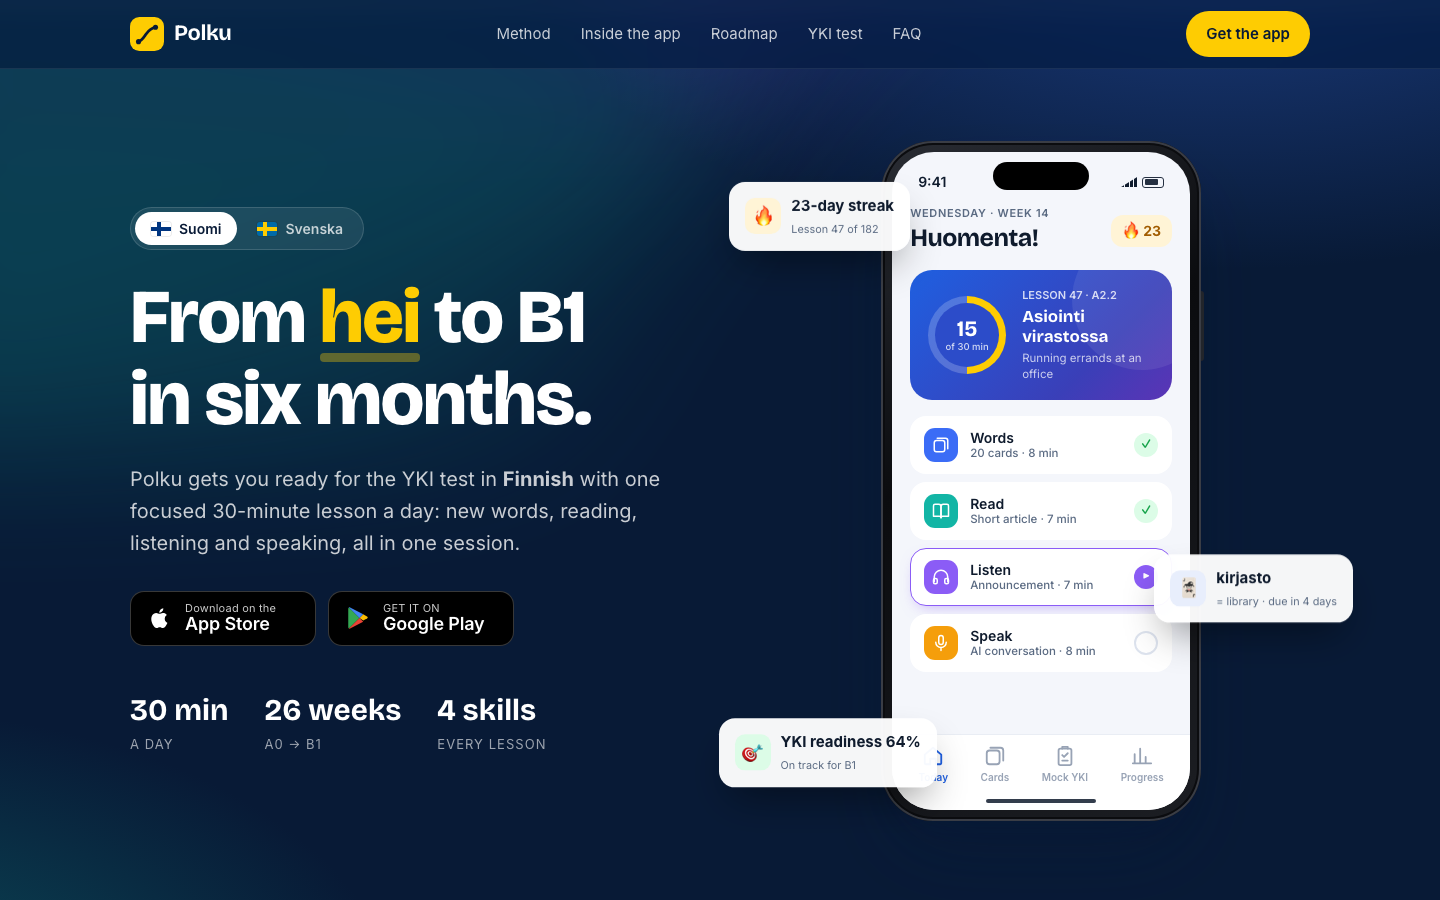
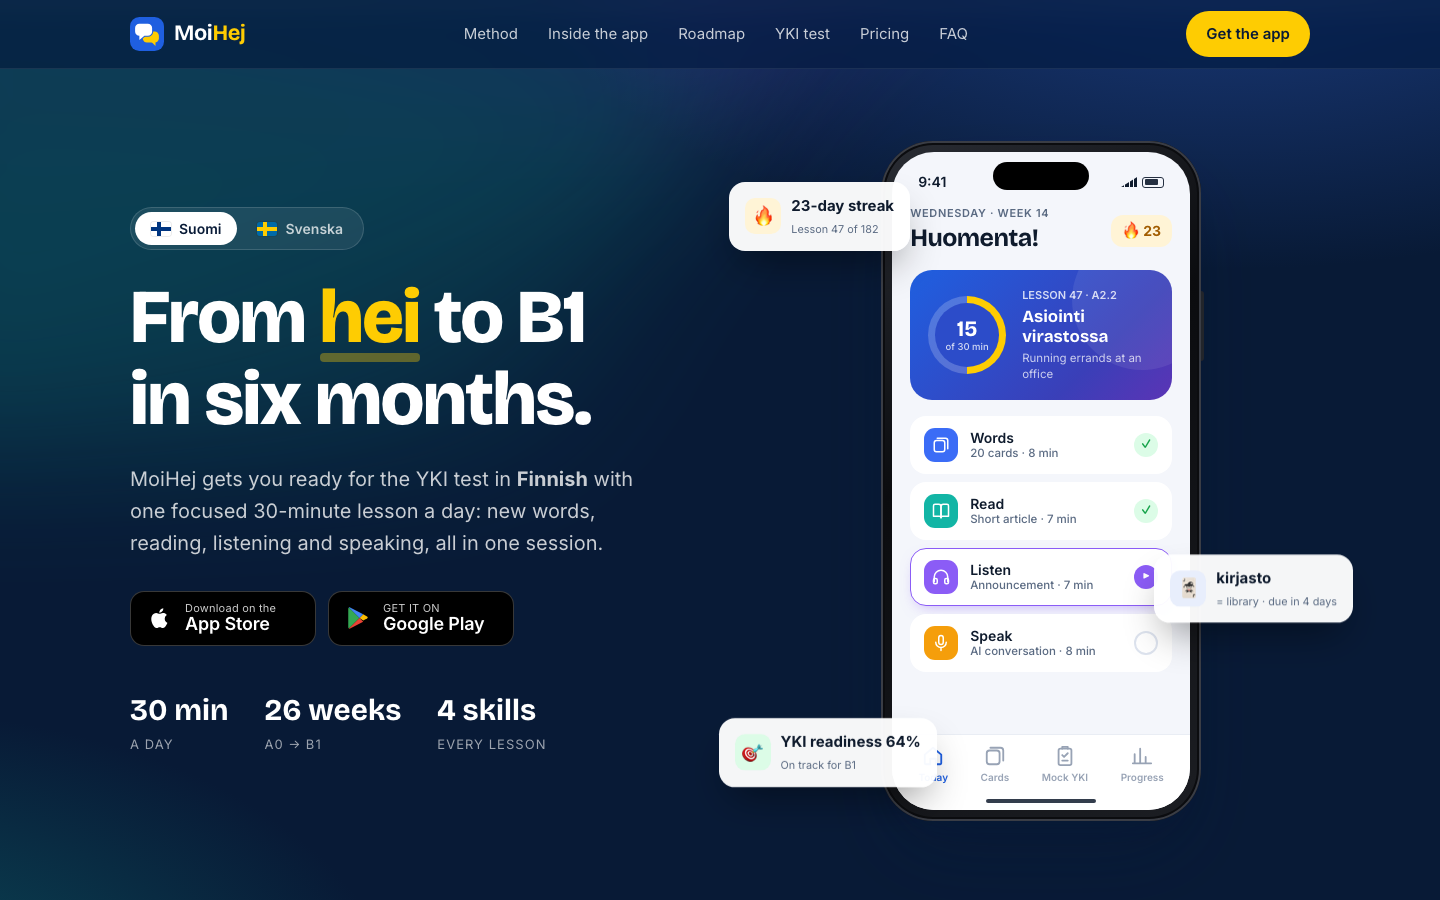
Rename app from Polku to MoiHej
New two-bubble logo mark (white = Finnish, yellow = Swedish) and
MoiHej wordmark; favicon, copy, privacy policy, README and mockup
images updated. GoatCounter account code stays 'polku'.

diff --git a/index.html b/index.html
@@ -3,16 +3,16 @@
 <head>
   <meta charset="utf-8">
   <meta name="viewport" content="width=device-width, initial-scale=1">
-  <title>Polku — Pass the YKI test in Finnish or Swedish</title>
+  <title>MoiHej — Pass the YKI test in Finnish or Swedish</title>
   <meta name="description" content="30-minute daily lessons that take you from A0 to B1 in six months. Flashcards, reading, listening and speaking practice built around the Finnish YKI language test.">
-  <meta property="og:title" content="Polku — From hei to B1 in six months">
+  <meta property="og:title" content="MoiHej — From hei to B1 in six months">
   <meta property="og:description" content="30 minutes a day. Words, reading, listening and speaking. Built for the YKI test.">
   <meta name="theme-color" content="#081a36">
   <link rel="icon" href="assets/favicon.svg" type="image/svg+xml">
   <link rel="preconnect" href="https://fonts.googleapis.com">
   <link rel="preconnect" href="https://fonts.gstatic.com" crossorigin>
   <link href="https://fonts.googleapis.com/css2?family=Bricolage+Grotesque:opsz,wght@12..96,600;12..96,700;12..96,800&family=Inter:wght@400;500;600;700&display=swap" rel="stylesheet">
-  <link rel="stylesheet" href="assets/styles.css?v=202611122002">
+  <link rel="stylesheet" href="assets/styles.css?v=2026111220232">
 </head>
 <body>
 
@@ -35,9 +35,9 @@
 
 <header class="nav">
   <div class="container">
-    <a href="#" class="logo" aria-label="Polku home">
-      <svg class="logo-mark" viewBox="0 0 40 40" aria-hidden="true"><rect width="40" height="40" rx="11" fill="#fecc02"/><path d="M10 29c4-1 6-5 9-9s6-7 11-8" stroke="#081a36" stroke-width="3.4" fill="none" stroke-linecap="round"/><circle cx="10" cy="29" r="3" fill="#081a36"/><circle cx="30" cy="12" r="3" fill="#081a36"/></svg>
-      Polku
+    <a href="#" class="logo" aria-label="MoiHej home">
+      <svg class="logo-mark" viewBox="0 0 40 40" aria-hidden="true"><rect width="40" height="40" rx="11" fill="#1f5fe0"/><rect x="15" y="17" width="19" height="13" rx="5" fill="#fecc02"/><path d="M25 29h5v5z" fill="#fecc02"/><g fill="#fff" stroke="#1f5fe0" stroke-width="2.5" stroke-linejoin="round" paint-order="stroke"><path d="M11 8h10a5 5 0 0 1 5 5v4a5 5 0 0 1-5 5h-4l-6 5v-5a5 5 0 0 1-5-5v-4a5 5 0 0 1 5-5z"/></g></svg>
+      <span class="wordmark">Moi<span class="logo-hej">Hej</span></span>
     </a>
     <nav class="nav-links">
       <a href="#method">Method</a>
@@ -61,7 +61,7 @@
         <button type="button" data-lang="sv" aria-pressed="false"><span class="flag sv"></span>Svenska</button>
       </div>
       <h1>From <span class="hl" data-t="hello">hei</span> to B1<br>in six months.</h1>
-      <p class="lede">Polku gets you ready for the YKI test in <strong data-t="langName">Finnish</strong> with one focused 30-minute lesson a day: new words, reading, listening and speaking, all in one session.</p>
+      <p class="lede">MoiHej gets you ready for the YKI test in <strong data-t="langName">Finnish</strong> with one focused 30-minute lesson a day: new words, reading, listening and speaking, all in one session.</p>
       <div class="stores">
         <a class="store" href="#" data-store="ios" data-where="hero" aria-label="Download on the App Store (coming soon)">
           <svg><use href="#i-apple"/></svg>
@@ -378,7 +378,7 @@
     <div class="section-head reveal">
       <span class="eyebrow-tag">Built around the YKI test</span>
       <h2>Practice exactly what you'll be tested on</h2>
-      <p>The YKI intermediate test (keskitaso / mellannivå) measures four skills. Polku trains every one of them and tells you where you stand before you book your exam.</p>
+      <p>The YKI intermediate test (keskitaso / mellannivå) measures four skills. MoiHej trains every one of them and tells you where you stand before you book your exam.</p>
     </div>
     <div class="yki-grid">
       <div class="yki-card reveal"><span class="num">01</span><h3>Reading</h3><p>Understand notices, emails and news articles. Practice with timed comprehension tasks in the real exam format.</p></div>
@@ -408,7 +408,7 @@
     <div class="price-wrap">
       <div class="plan reveal">
         <span class="trial-badge">First 3 days free</span>
-        <h3>Polku Premium</h3>
+        <h3>MoiHej Premium</h3>
         <p class="plan-sub">Finnish or Swedish · iOS &amp; Android</p>
         <div class="price"><span class="cur">€</span><span class="amt">49</span><span class="per">/ month</span></div>
         <p class="per-day">That's about <strong>€1.63 a day</strong></p>
@@ -426,7 +426,7 @@
 
       <div class="coffee reveal">
         <h3>Cheaper than your daily coffee</h3>
-        <p>One café coffee a day in Finland adds up fast. Polku costs less, and gets you to B1.</p>
+        <p>One café coffee a day in Finland adds up fast. MoiHej costs less, and gets you to B1.</p>
         <div class="vs">
           <div class="vs-row">
             <span class="vs-ico">☕</span>
@@ -435,7 +435,7 @@
           </div>
           <div class="vs-row us">
             <span class="vs-ico logo-ico"><svg viewBox="0 0 40 40" aria-hidden="true"><rect width="40" height="40" rx="11" fill="#fecc02"/><path d="M10 29c4-1 6-5 9-9s6-7 11-8" stroke="#081a36" stroke-width="3.4" fill="none" stroke-linecap="round"/></svg></span>
-            <div class="vs-main"><b>Polku Premium</b><small>30 lessons + mock tests</small><span class="vs-bar"><i style="width:47%"></i></span></div>
+            <div class="vs-main"><b>MoiHej Premium</b><small>30 lessons + mock tests</small><span class="vs-bar"><i style="width:47%"></i></span></div>
             <strong>€49</strong>
           </div>
         </div>
@@ -455,7 +455,7 @@
     <div class="faq-list">
       <details class="reveal" open>
         <summary>Can I really get from zero to B1 in six months?</summary>
-        <p>With 30 minutes every day, you'll put in around 90 hours of focused, structured practice. Results depend on your background and consistency. Polku's weekly mock tests show your real progress, so you'll know when you're ready to book the exam.</p>
+        <p>With 30 minutes every day, you'll put in around 90 hours of focused, structured practice. Results depend on your background and consistency. MoiHej's weekly mock tests show your real progress, so you'll know when you're ready to book the exam.</p>
       </details>
       <details class="reveal">
         <summary>How does the free trial work?</summary>
@@ -474,8 +474,8 @@
         <p>Yes. Download the next week of lessons and study on the train or anywhere without a connection. The AI speaking practice needs internet.</p>
       </details>
       <details class="reveal">
-        <summary>Is Polku affiliated with the official YKI test?</summary>
-        <p>No. Polku is an independent preparation app. The YKI test is organised by the Finnish National Agency for Education (Opetushallitus) and the University of Jyväskylä.</p>
+        <summary>Is MoiHej affiliated with the official YKI test?</summary>
+        <p>No. MoiHej is an independent preparation app. The YKI test is organised by the Finnish National Agency for Education (Opetushallitus) and the University of Jyväskylä.</p>
       </details>
     </div>
   </div>
@@ -505,8 +505,8 @@
 <footer>
   <div class="container">
     <a href="#" class="logo">
-      <svg class="logo-mark" viewBox="0 0 40 40" aria-hidden="true"><rect width="40" height="40" rx="11" fill="#fecc02"/><path d="M10 29c4-1 6-5 9-9s6-7 11-8" stroke="#081a36" stroke-width="3.4" fill="none" stroke-linecap="round"/><circle cx="10" cy="29" r="3" fill="#081a36"/><circle cx="30" cy="12" r="3" fill="#081a36"/></svg>
-      Polku
+      <svg class="logo-mark" viewBox="0 0 40 40" aria-hidden="true"><rect width="40" height="40" rx="11" fill="#1f5fe0"/><rect x="15" y="17" width="19" height="13" rx="5" fill="#fecc02"/><path d="M25 29h5v5z" fill="#fecc02"/><g fill="#fff" stroke="#1f5fe0" stroke-width="2.5" stroke-linejoin="round" paint-order="stroke"><path d="M11 8h10a5 5 0 0 1 5 5v4a5 5 0 0 1-5 5h-4l-6 5v-5a5 5 0 0 1-5-5v-4a5 5 0 0 1 5-5z"/></g></svg>
+      <span class="wordmark">Moi<span class="logo-hej">Hej</span></span>
     </a>
     <nav>
       <a href="mockups.html">Mockups</a>
@@ -523,7 +523,7 @@
   <div class="wl-body" data-step="form">
     <span class="wl-badge">Launching soon</span>
     <h2 id="wl-title">Be first to start learning</h2>
-    <p class="wl-lede">Polku isn't in the stores yet. Leave your email and we'll tell you the day it launches.</p>
+    <p class="wl-lede">MoiHej isn't in the stores yet. Leave your email and we'll tell you the day it launches.</p>
     <form id="wl-form" novalidate>
       <label class="wl-field">
         <span>Email</span>
@@ -543,21 +543,21 @@
       <input type="text" name="_gotcha" class="wl-hp" tabindex="-1" autocomplete="off" aria-hidden="true">
       <label class="wl-consent">
         <input type="checkbox" name="consent" value="yes" required>
-        <span>Email me when Polku launches. I can unsubscribe anytime. See the <a href="#" data-privacy>privacy note</a>.</span>
+        <span>Email me when MoiHej launches. I can unsubscribe anytime. See the <a href="#" data-privacy>privacy note</a>.</span>
       </label>
       <p class="wl-error" role="alert" hidden></p>
       <button type="submit" class="btn wl-submit">Notify me at launch</button>
     </form>
-    <p class="wl-privacy" hidden id="wl-privacy-note">We only use your email to tell you when Polku launches. It's stored with our form provider (Formspree) and never sold or shared. Want it deleted? Just reply to any email from us. <a href="privacy.html" target="_blank" rel="noopener">Full privacy policy</a></p>
+    <p class="wl-privacy" hidden id="wl-privacy-note">We only use your email to tell you when MoiHej launches. It's stored with our form provider (Formspree) and never sold or shared. Want it deleted? Just reply to any email from us. <a href="privacy.html" target="_blank" rel="noopener">Full privacy policy</a></p>
   </div>
   <div class="wl-body wl-done" data-step="done" hidden>
     <div class="wl-check">✓</div>
     <h2>You're on the list!</h2>
-    <p class="wl-lede">We'll email you as soon as Polku is in the App Store and Google Play. <span data-t="hello">hei</span> for now!</p>
+    <p class="wl-lede">We'll email you as soon as MoiHej is in the App Store and Google Play. <span data-t="hello">hei</span> for now!</p>
     <button type="button" class="btn wl-submit" data-close>Back to the site</button>
   </div>
 </dialog>
 <div class="toast" role="status" aria-live="polite"></div>
-<script src="assets/app.js?v=202611122002"></script>
+<script src="assets/app.js?v=2026111220232"></script>
 </body>
 </html>

diff --git a/privacy.html b/privacy.html
@@ -3,14 +3,14 @@
 <head>
   <meta charset="utf-8">
   <meta name="viewport" content="width=device-width, initial-scale=1">
-  <title>Privacy Policy · Polku</title>
-  <meta name="description" content="How the Polku website handles your personal data: the launch waitlist, cookie-free analytics, and your rights under the GDPR.">
+  <title>Privacy Policy · MoiHej</title>
+  <meta name="description" content="How the MoiHej website handles your personal data: the launch waitlist, cookie-free analytics, and your rights under the GDPR.">
   <meta name="theme-color" content="#081a36">
   <link rel="icon" href="assets/favicon.svg" type="image/svg+xml">
   <link rel="preconnect" href="https://fonts.googleapis.com">
   <link rel="preconnect" href="https://fonts.gstatic.com" crossorigin>
   <link href="https://fonts.googleapis.com/css2?family=Bricolage+Grotesque:opsz,wght@12..96,600;12..96,700;12..96,800&family=Inter:wght@400;500;600;700&display=swap" rel="stylesheet">
-  <link rel="stylesheet" href="assets/styles.css?v=202611122002">
+  <link rel="stylesheet" href="assets/styles.css?v=2026111220232">
   <style>
     .legal-hero { background: var(--navy); color: #fff; padding: 140px 0 56px; margin-top: -68px; }
     .legal-hero h1 { font-size: clamp(36px, 5vw, 56px); font-weight: 800; }
@@ -39,9 +39,9 @@
 
 <header class="nav">
   <div class="container">
-    <a href="index.html" class="logo" aria-label="Polku home">
-      <svg class="logo-mark" viewBox="0 0 40 40" aria-hidden="true"><rect width="40" height="40" rx="11" fill="#fecc02"/><path d="M10 29c4-1 6-5 9-9s6-7 11-8" stroke="#081a36" stroke-width="3.4" fill="none" stroke-linecap="round"/><circle cx="10" cy="29" r="3" fill="#081a36"/><circle cx="30" cy="12" r="3" fill="#081a36"/></svg>
-      Polku
+    <a href="index.html" class="logo" aria-label="MoiHej home">
+      <svg class="logo-mark" viewBox="0 0 40 40" aria-hidden="true"><rect width="40" height="40" rx="11" fill="#1f5fe0"/><rect x="15" y="17" width="19" height="13" rx="5" fill="#fecc02"/><path d="M25 29h5v5z" fill="#fecc02"/><g fill="#fff" stroke="#1f5fe0" stroke-width="2.5" stroke-linejoin="round" paint-order="stroke"><path d="M11 8h10a5 5 0 0 1 5 5v4a5 5 0 0 1-5 5h-4l-6 5v-5a5 5 0 0 1-5-5v-4a5 5 0 0 1 5-5z"/></g></svg>
+      <span class="wordmark">Moi<span class="logo-hej">Hej</span></span>
     </a>
     <a href="index.html" class="back">← Back to site</a>
   </div>
@@ -62,7 +62,7 @@
       <ul>
         <li>This website uses <strong>no cookies</strong> and no advertising trackers.</li>
         <li>We count visits with GoatCounter, which doesn't identify you or store your IP address.</li>
-        <li>If you join the launch waitlist, we keep your email, language and phone type <strong>only to tell you when Polku launches</strong>.</li>
+        <li>If you join the launch waitlist, we keep your email, language and phone type <strong>only to tell you when MoiHej launches</strong>.</li>
         <li>We never sell or share your data for marketing. You can ask us to delete it at any time.</li>
       </ul>
     </div>
@@ -82,7 +82,7 @@
       <li>which button on the page you used to open the form</li>
       <li>the fact that you ticked the consent box, and when you submitted the form</li>
     </ul>
-    <p><strong>Purpose:</strong> to email you when Polku is available in the App Store and Google Play, and to understand how many people want each language and platform.</p>
+    <p><strong>Purpose:</strong> to email you when MoiHej is available in the App Store and Google Play, and to understand how many people want each language and platform.</p>
     <p><strong>Legal basis:</strong> your consent (GDPR Article 6(1)(a)). You can withdraw it at any time by using the unsubscribe link in our emails or by contacting us. Withdrawing consent doesn't affect anything we did before you withdrew it.</p>
 
     <h3>b) Visitor statistics</h3>
@@ -129,8 +129,8 @@
     <h2>6. Cookies</h2>
     <p>This website doesn't set any cookies. It saves one setting in your browser's local storage, the language you last previewed (Finnish or Swedish), so the page remembers it on your next visit. This never leaves your device, and you can clear it in your browser settings at any time.</p>
 
-    <h2>7. The Polku app</h2>
-    <p>This policy covers this website only. The Polku mobile app will have its own privacy policy, available before you download it.</p>
+    <h2>7. The MoiHej app</h2>
+    <p>This policy covers this website only. The MoiHej mobile app will have its own privacy policy, available before you download it.</p>
 
     <h2>8. Changes</h2>
     <p>If we change this policy, we'll update the date at the top of this page. If a change affects how we use waitlist data, we'll tell you by email before it takes effect.</p>
@@ -141,8 +141,8 @@
 <footer>
   <div class="container">
     <a href="index.html" class="logo">
-      <svg class="logo-mark" viewBox="0 0 40 40" aria-hidden="true"><rect width="40" height="40" rx="11" fill="#fecc02"/><path d="M10 29c4-1 6-5 9-9s6-7 11-8" stroke="#081a36" stroke-width="3.4" fill="none" stroke-linecap="round"/><circle cx="10" cy="29" r="3" fill="#081a36"/><circle cx="30" cy="12" r="3" fill="#081a36"/></svg>
-      Polku
+      <svg class="logo-mark" viewBox="0 0 40 40" aria-hidden="true"><rect width="40" height="40" rx="11" fill="#1f5fe0"/><rect x="15" y="17" width="19" height="13" rx="5" fill="#fecc02"/><path d="M25 29h5v5z" fill="#fecc02"/><g fill="#fff" stroke="#1f5fe0" stroke-width="2.5" stroke-linejoin="round" paint-order="stroke"><path d="M11 8h10a5 5 0 0 1 5 5v4a5 5 0 0 1-5 5h-4l-6 5v-5a5 5 0 0 1-5-5v-4a5 5 0 0 1 5-5z"/></g></svg>
+      <span class="wordmark">Moi<span class="logo-hej">Hej</span></span>
     </a>
     <nav>
       <a href="index.html">Home</a>

diff --git a/assets/app.js b/assets/app.js
@@ -1,9 +1,9 @@
-/* Polku landing page — small, dependency-free enhancements */
+/* MoiHej landing page — small, dependency-free enhancements */
 (function () {
   "use strict";
 
   // ---------- Analytics (GoatCounter: free, cookie-free, GDPR-friendly) ----------
-  // 1. Sign up at https://www.goatcounter.com and pick a code, e.g. "polku".
+  // 1. Sign up at https://www.goatcounter.com and pick a code (this site uses "polku").
   // 2. Put that code here. Leave it empty to disable analytics entirely.
   var GOATCOUNTER_CODE = "polku";
 
@@ -23,7 +23,7 @@
       }
     } catch (e) { /* never break the page for analytics */ }
   }
-  window.polkuTrack = track;
+  window.moihejTrack = track;
 
   // ---------- "Coming soon" toast for the placeholder store links ----------
   var toastEl = document.querySelector(".toast"), toastTimer;
@@ -93,7 +93,7 @@
 
       btn.disabled = true; btn.textContent = "Sending…";
       var data = new FormData(form);
-      data.append("_subject", "Polku waitlist: " + data.get("language") + " / " + data.get("platform"));
+      data.append("_subject", "MoiHej waitlist: " + data.get("language") + " / " + data.get("platform"));
       fetch("https://formspree.io/f/" + FORMSPREE_ID, { method: "POST", body: data, headers: { Accept: "application/json" } })
         .then(function (r) {
           if (!r.ok) throw new Error("HTTP " + r.status);
@@ -186,7 +186,7 @@
     document.querySelectorAll(".lang-toggle button").forEach(function (b) {
       b.setAttribute("aria-pressed", String(b.dataset.lang === lang));
     });
-    try { localStorage.setItem("polku-lang", lang); } catch (e) { /* storage unavailable */ }
+    try { localStorage.setItem("moihej-lang", lang); } catch (e) { /* storage unavailable */ }
   }
 
   document.addEventListener("click", function (e) {
@@ -239,7 +239,7 @@
 
   // Initial language (remembered per visitor)
   var saved = "fi";
-  try { saved = localStorage.getItem("polku-lang") || "fi"; } catch (e) { /* ignore */ }
+  try { saved = localStorage.getItem("moihej-lang") || "fi"; } catch (e) { /* ignore */ }
   setLang(saved);
 
   // ---------- Reveal on scroll ----------

diff --git a/mockups.html b/mockups.html
@@ -3,13 +3,13 @@
 <head>
   <meta charset="utf-8">
   <meta name="viewport" content="width=device-width, initial-scale=1">
-  <title>Polku — App Mockups</title>
+  <title>MoiHej — App Mockups</title>
   <meta name="robots" content="noindex">
   <link rel="icon" href="assets/favicon.svg" type="image/svg+xml">
   <link rel="preconnect" href="https://fonts.googleapis.com">
   <link rel="preconnect" href="https://fonts.gstatic.com" crossorigin>
   <link href="https://fonts.googleapis.com/css2?family=Bricolage+Grotesque:opsz,wght@12..96,600;12..96,700;12..96,800&family=Inter:wght@400;500;600;700&display=swap" rel="stylesheet">
-  <link rel="stylesheet" href="assets/styles.css?v=202611122002">
+  <link rel="stylesheet" href="assets/styles.css?v=2026111220232">
   <style>
     body { background: radial-gradient(1200px 700px at 80% -10%, #1d3f86, transparent 60%), radial-gradient(900px 600px at 0% 100%, #0b4d5a, transparent 60%), #081a36; color: #fff; min-height: 100vh; }
     .board-head { display: flex; justify-content: space-between; align-items: end; gap: 24px; flex-wrap: wrap; padding: 56px 0 40px; }
@@ -30,7 +30,7 @@
     <div class="board-head">
       <div>
         <a class="back" href="index.html">← Back to site</a>
-        <h1>Polku app mockups</h1>
+        <h1>MoiHej app mockups</h1>
         <p>Six core screens for iOS &amp; Android. The screens on the landing page are the same HTML.</p>
       </div>
       <div class="lang-toggle" role="group" aria-label="Choose language" style="margin:0">
@@ -69,7 +69,7 @@
         board.appendChild(fig);
       });
       var s = document.createElement("script");
-      s.src = "assets/app.js?v=202611122002";
+      s.src = "assets/app.js?v=2026111220232";
       document.body.appendChild(s);
     }).catch(function () {
       document.getElementById("board").innerHTML = "<p>Open this page through a web server (e.g. GitHub Pages or <code>python3 -m http.server</code>) to load the screens.</p>";

diff --git a/assets/styles.css b/assets/styles.css
@@ -1,5 +1,5 @@
 /* ==========================================================================
-   Polku — YKI prep landing page
+   MoiHej — YKI prep landing page
    ========================================================================== */
 
 :root {
@@ -84,6 +84,8 @@ p { margin: 0; }
 .nav .container { display: flex; align-items: center; justify-content: space-between; height: 68px; }
 .logo { display: flex; align-items: center; gap: 10px; color: #fff; font-family: var(--font-display); font-weight: 700; font-size: 22px; letter-spacing: -.02em; }
 .logo-mark { width: 34px; height: 34px; }
+.logo-hej { color: var(--yellow); }
+footer .logo-hej { color: var(--blue); }
 .nav-links { display: flex; gap: 30px; color: rgba(255, 255, 255, .78); font-size: 15px; }
 .nav-links a:hover { color: #fff; }
 

diff --git a/README.md b/README.md
@@ -1,10 +1,10 @@
-# Polku — YKI prep landing page
+# MoiHej — YKI prep landing page
 
-Static landing page for **Polku**, a mobile app (iOS & Android) that takes learners from **A0 to B1 in six months** to pass the Finnish **YKI** language test, in **Finnish or Swedish**.
+Static landing page for **MoiHej**, a mobile app (iOS & Android) that takes learners from **A0 to B1 in six months** to pass the Finnish **YKI** language test, in **Finnish or Swedish**.
 
 Each daily lesson is **30 minutes**: Words (spaced-repetition flashcards, 8 min) → Read (7 min) → Listen (7 min) → Speak (AI tutor, 8 min).
 
-![App mockups](mockups/polku-mockups-fi.png)
+![App mockups](mockups/moihej-mockups-fi.png)
 
 ## Pages
 
@@ -68,5 +68,4 @@ Signups go to [Formspree](https://formspree.io) (the free plan takes 50 a month)
 - Add the privacy contact email in `privacy.html` (two `[PRIVACY CONTACT EMAIL]` spots).
 - Replace the `href="#"` store links (search for `class="store"`) with real App Store / Google Play URLs.
 - Use official Apple / Google badge artwork per their brand guidelines.
-- Final app name and logo (“Polku” is a placeholder).
 - Privacy, Terms and Contact links in the footer.
